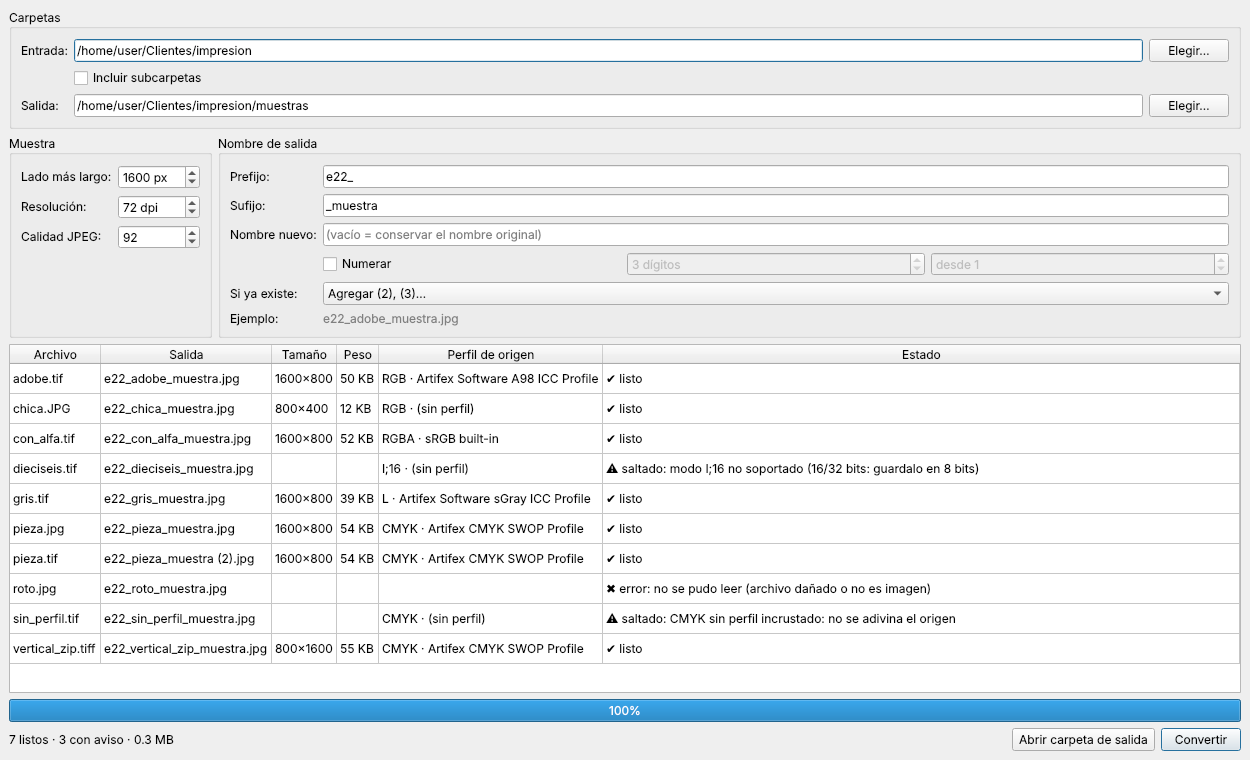
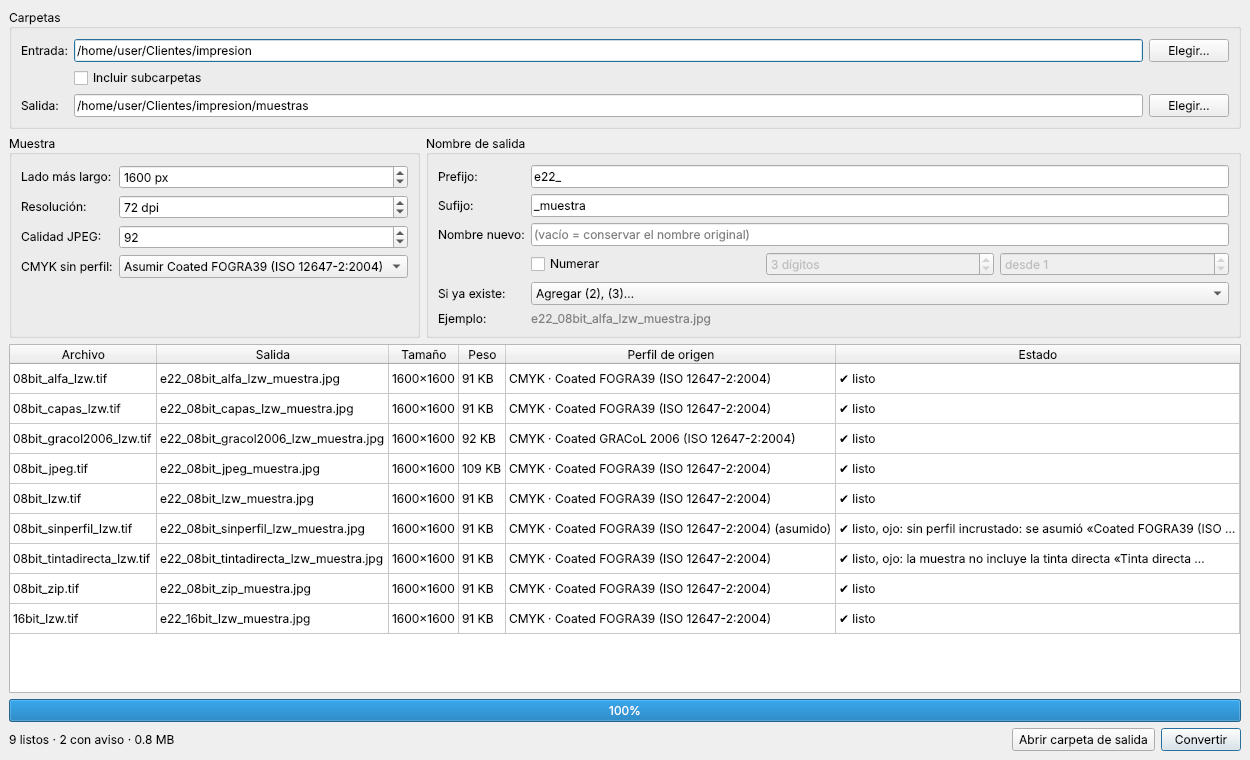
Opcion para asumir un perfil en CMYK sin perfil incrustado
Photoshop no tiene un perfil fijo para estos casos: usa su espacio de trabajo
CMYK, que depende de la region (SWOP v2 en Norteamerica, FOGRA39 en Europa).
En vez de adivinar en silencio:

- muestras_core: Opciones.perfil_cmyk; si esta vacio el archivo se salta como
  antes, si no se convierte con ese perfil y queda en estado "aviso" diciendo
  cual se asumio. buscar_perfiles_cmyk() lista los perfiles CMYK instalados
  (carpetas de Adobe y del sistema) leyendo la cabecera ICC.
- GUI: combo "CMYK sin perfil" (saltar / perfiles instalados / elegir .icc),
  recordado entre sesiones.
- CLI: --perfil-cmyk.
- Pruebas: asumir FOGRA39 en 08bit_sinperfil da la misma muestra que 08bit_lzw.

Claude-Session: https://claude.ai/code/session_01CtNG3Qw2qpFFRq4txXUyPD

diff --git a/muestras_core.py b/muestras_core.py
@@ -13,9 +13,11 @@ Flujo por archivo (ver README para el porque de cada paso):
 
 Los originales NO se tocan: solo se escribe en la carpeta de salida.
 """
+import functools
 import os
 import re
 import struct
+import sys
 from dataclasses import dataclass
 
 from PIL import Image, ImageCms
@@ -47,6 +49,7 @@ class Opciones:
     digitos: int = 3
     inicio: int = 1
     si_existe: str = "numerar"
+    perfil_cmyk: str = ""       # .icc a asumir en CMYK sin perfil; vacio = saltarlos
 
 
 @dataclass
@@ -117,6 +120,52 @@ def planear_salidas(archivos, destino, opciones):
         usados.add(salida.lower())
         plan.append(salida)
     return plan
+
+
+# Donde suelen vivir los perfiles ICC (Adobe instala los suyos en las de Adobe).
+def _carpetas_perfiles():
+    if sys.platform == "win32":
+        windir = os.environ.get("WINDIR", r"C:\Windows")
+        comunes = os.environ.get("COMMONPROGRAMFILES", r"C:\Program Files\Common Files")
+        return [os.path.join(windir, "System32", "spool", "drivers", "color"),
+                os.path.join(comunes, "Adobe", "Color", "Profiles")]
+    if sys.platform == "darwin":
+        return ["/Library/Application Support/Adobe/Color/Profiles",
+                "/Library/ColorSync/Profiles",
+                os.path.expanduser("~/Library/ColorSync/Profiles"),
+                "/System/Library/ColorSync/Profiles"]
+    return ["/usr/share/color/icc", "/usr/local/share/color/icc",
+            os.path.expanduser("~/.local/share/icc"), os.path.expanduser("~/.color/icc")]
+
+
+def es_perfil_cmyk(ruta):
+    """True si el .icc/.icm describe un espacio CMYK (bytes 16-19 de la cabecera)."""
+    try:
+        with open(ruta, "rb") as f:
+            cabecera = f.read(40)
+        return len(cabecera) == 40 and cabecera[36:40] == b"acsp" and cabecera[16:20] == b"CMYK"
+    except OSError:
+        return False
+
+
+def buscar_perfiles_cmyk(carpetas=None):
+    """[(descripcion, ruta)] de los perfiles CMYK instalados, sin repetir descripcion."""
+    vistos = {}
+    for carpeta in carpetas or _carpetas_perfiles():
+        for raiz, _, nombres in os.walk(carpeta):
+            for n in nombres:
+                ruta = os.path.join(raiz, n)
+                if n.lower().endswith((".icc", ".icm")) and es_perfil_cmyk(ruta):
+                    with open(ruta, "rb") as f:
+                        desc = descripcion_perfil(f.read())
+                    vistos.setdefault(desc, ruta)
+    return sorted(vistos.items(), key=lambda par: par[0].lower())
+
+
+@functools.lru_cache(maxsize=4)
+def leer_perfil(ruta):
+    with open(ruta, "rb") as f:
+        return f.read()
 
 
 def descripcion_perfil(icc):
@@ -227,13 +276,19 @@ def procesar(ruta, salida, opciones):
                     r.motivo += " (gris de 16/32 bits: guárdalo en 8 bits)"
                 return r
             if img.mode == "CMYK" and not icc:
-                r.estado = "saltado"
-                r.motivo = "CMYK sin perfil incrustado: no se adivina el origen"
-                return r
+                if not opciones.perfil_cmyk:
+                    r.estado = "saltado"
+                    r.motivo = "CMYK sin perfil incrustado: no se adivina el origen"
+                    return r
+                # Lo mismo que hace Photoshop con su espacio de trabajo CMYK, pero a la vista.
+                icc = leer_perfil(opciones.perfil_cmyk)
+                r.perfil_origen = descripcion_perfil(icc) + " (asumido)"
+                r.estado = "aviso"
+                r.motivo = f"sin perfil incrustado: se asumió «{descripcion_perfil(icc)}»"
             directas = tintas_directas(img)
             if directas:
                 r.estado = "aviso"
-                r.motivo = ("la muestra no incluye la tinta directa "
+                r.motivo = (r.motivo + "; " if r.motivo else "") + ("la muestra no incluye la tinta directa "
                             + ", ".join(f"«{n}»" for n in directas) + " (solo CMYK)")
             img.thumbnail((opciones.lado, opciones.lado), Image.LANCZOS)
             img.info["icc_profile"] = icc

diff --git a/muestras_gui.py b/muestras_gui.py
@@ -26,6 +26,7 @@ import muestras_core as core
 APP = "muestras-rgb"
 ORG = "e22lab"
 COL_ARCHIVO, COL_SALIDA, COL_TAMANO, COL_PESO, COL_PERFIL, COL_ESTADO = range(6)
+ELEGIR_ICC = "<elegir>"
 TEXTO_SI_EXISTE = {"numerar": "Agregar (2), (3)…", "sobrescribir": "Sobrescribir",
                    "saltar": "Saltar"}
 
@@ -94,6 +95,17 @@ class Ventana(QMainWindow):
         ft.addRow("Lado más largo:", self.sp_lado)
         ft.addRow("Resolución:", self.sp_dpi)
         ft.addRow("Calidad JPEG:", self.sp_calidad)
+        self.cb_perfil = QComboBox()
+        self.cb_perfil.setToolTip(
+            "Qué hacer con un CMYK que no trae perfil incrustado. Photoshop usa su espacio\n"
+            "de trabajo CMYK (en Norteamérica suele ser U.S. Web Coated SWOP v2; en Europa,\n"
+            "Coated FOGRA39). Si asumes uno, la muestra queda marcada con aviso.")
+        self.cb_perfil.addItem("Saltarlos (recomendado)", "")
+        for desc, ruta in core.buscar_perfiles_cmyk():
+            self.cb_perfil.addItem(f"Asumir {desc}", ruta)
+        self.cb_perfil.addItem("Elegir archivo .icc…", ELEGIR_ICC)
+        self.cb_perfil.activated.connect(self.al_elegir_perfil)
+        ft.addRow("CMYK sin perfil:", self.cb_perfil)
 
         # --- Nombre ---------------------------------------------------------
         nombre = QGroupBox("Nombre de salida")
@@ -193,12 +205,14 @@ class Ventana(QMainWindow):
         self.chk_numerar.setChecked(a.value("numerar", False, type=bool))
         self.sp_digitos.setValue(int(a.value("digitos", 3)))
         self.cb_existe.setCurrentIndex(max(0, self.cb_existe.findData(a.value("si_existe", "numerar"))))
+        self.poner_perfil(a.value("perfil_cmyk", ""))
 
     def guardar_ajustes(self):
         a = self.ajustes
         o = self.opciones()
         a.setValue("entrada", self.ed_entrada.text())
-        for clave in ("lado", "dpi", "calidad", "prefijo", "sufijo", "numerar", "digitos", "si_existe"):
+        for clave in ("lado", "dpi", "calidad", "prefijo", "sufijo", "numerar", "digitos", "si_existe",
+                      "perfil_cmyk"):
             a.setValue(clave, getattr(o, clave))
 
     def closeEvent(self, ev):
@@ -271,7 +285,30 @@ class Ventana(QMainWindow):
             prefijo=self.ed_prefijo.text(), sufijo=self.ed_sufijo.text(),
             nombre_nuevo=self.ed_nuevo.text(), numerar=self.chk_numerar.isChecked(),
             digitos=self.sp_digitos.value(), inicio=self.sp_inicio.value(),
-            si_existe=self.cb_existe.currentData())
+            si_existe=self.cb_existe.currentData(), perfil_cmyk=self.cb_perfil.currentData())
+
+    # --- perfil para CMYK sin perfil --------------------------------------------
+    def poner_perfil(self, ruta):
+        """Selecciona `ruta` en la lista (agregandola si no estaba); vacia = saltar."""
+        if not ruta or not os.path.isfile(ruta) or not core.es_perfil_cmyk(ruta):
+            self.cb_perfil.setCurrentIndex(0)
+            return
+        i = self.cb_perfil.findData(ruta)
+        if i < 0:
+            desc = core.descripcion_perfil(core.leer_perfil(ruta))
+            i = self.cb_perfil.count() - 1          # antes de "Elegir archivo…"
+            self.cb_perfil.insertItem(i, f"Asumir {desc}", ruta)
+        self.cb_perfil.setCurrentIndex(i)
+
+    def al_elegir_perfil(self, _indice):
+        if self.cb_perfil.currentData() != ELEGIR_ICC:
+            return
+        ruta, _ = QFileDialog.getOpenFileName(self, "Perfil CMYK a asumir", "",
+                                              "Perfiles ICC (*.icc *.icm)")
+        if ruta and not core.es_perfil_cmyk(ruta):
+            QMessageBox.warning(self, APP, "Ese archivo no es un perfil ICC CMYK.")
+            ruta = ""
+        self.poner_perfil(ruta)
 
     def actualizar_nombres(self):
         if self.trabajador:

diff --git a/tests/test_fixtures.py b/tests/test_fixtures.py
@@ -75,5 +75,45 @@ class TestFixturesTiff(unittest.TestCase):
                     self.assertLess(max(dif), tolerancia)
 
 
+class TestCmykSinPerfil(unittest.TestCase):
+    """Asumir FOGRA39 para 08bit_sinperfil_lzw debe dar lo mismo que 08bit_lzw (mismos pixeles)."""
+
+    @classmethod
+    def setUpClass(cls):
+        cls.tmp = tempfile.TemporaryDirectory()
+        with Image.open(os.path.join(FIXTURES, "08bit_lzw.tif")) as im:
+            cls.fogra = os.path.join(cls.tmp.name, "perfiles", "fogra39.icc")
+            os.makedirs(os.path.dirname(cls.fogra))
+            with open(cls.fogra, "wb") as f:
+                f.write(im.info["icc_profile"])
+        with open(os.path.join(cls.tmp.name, "perfiles", "srgb.icc"), "wb") as f:
+            f.write(core.SRGB_BYTES)
+
+    @classmethod
+    def tearDownClass(cls):
+        cls.tmp.cleanup()
+
+    def _procesar(self, nombre, perfil):
+        salida = os.path.join(self.tmp.name, nombre + ".jpg")
+        opciones = core.Opciones(lado=500, perfil_cmyk=perfil)
+        return core.procesar(os.path.join(FIXTURES, nombre + ".tif"), salida, opciones)
+
+    def test_sin_opcion_se_salta(self):
+        self.assertEqual(self._procesar("08bit_sinperfil_lzw", "").estado, "saltado")
+
+    def test_perfil_asumido(self):
+        r = self._procesar("08bit_sinperfil_lzw", self.fogra)
+        self.assertEqual(r.estado, "aviso")
+        self.assertIn("se asumió «Coated FOGRA39", r.motivo)
+        ref = self._procesar("08bit_lzw", self.fogra)
+        self.assertEqual(ref.estado, "ok")      # el perfil incrustado manda sobre el asumido
+        with Image.open(r.salida) as a, Image.open(ref.salida) as b:
+            self.assertEqual(max(ImageStat.Stat(ImageChops.difference(a, b)).mean), 0)
+
+    def test_buscar_perfiles_cmyk(self):
+        encontrados = core.buscar_perfiles_cmyk([os.path.dirname(self.fogra)])
+        self.assertEqual([d for d, _ in encontrados], ["Coated FOGRA39 (ISO 12647-2:2004)"])
+
+
 if __name__ == "__main__":
     unittest.main()

diff --git a/exportar_muestras_rgb.py b/exportar_muestras_rgb.py
@@ -36,6 +36,8 @@ def parse_args():
                    help="DPI escrito en los metadatos (default: 72)")
     p.add_argument("--prefijo", default="", help="Texto antes del nombre de cada muestra")
     p.add_argument("--sufijo", default="", help="Texto despues del nombre de cada muestra")
+    p.add_argument("--perfil-cmyk", default="",
+                   help="Perfil .icc a asumir en los CMYK sin perfil incrustado (default: saltarlos)")
     p.add_argument("--si-existe", choices=core.SI_EXISTE, default="numerar",
                    help="Si la muestra ya existe: numerar (default), sobrescribir o saltar")
     return p.parse_args()
@@ -46,8 +48,11 @@ def main():
     carpeta = os.path.abspath(args.carpeta)
     destino = os.path.abspath(args.salida) if args.salida else os.path.join(carpeta, args.subcarpeta)
     opciones = core.Opciones(lado=args.lado, calidad=args.calidad, dpi=args.dpi,
-                             prefijo=args.prefijo, sufijo=args.sufijo, si_existe=args.si_existe)
+                             prefijo=args.prefijo, sufijo=args.sufijo, si_existe=args.si_existe,
+                             perfil_cmyk=args.perfil_cmyk)
 
+    if args.perfil_cmyk and not core.es_perfil_cmyk(args.perfil_cmyk):
+        raise SystemExit(f"--perfil-cmyk: {args.perfil_cmyk} no es un perfil ICC CMYK")
     archivos = core.listar_archivos(carpeta)
     plan = core.planear_salidas(archivos, destino, opciones)
     print(f"{len(archivos)} JPG/TIFF en {carpeta}")

diff --git a/README.md b/README.md
@@ -33,6 +33,9 @@ python muestras_gui.py
   carpeta de salida nunca se reprocesan.
 - **Salida:** por defecto `<entrada>/muestras`; se puede elegir cualquier otra.
 - **Muestra:** lado más largo (no agranda imágenes más chicas), dpi y calidad JPEG.
+- **CMYK sin perfil:** saltarlos (default) o asumir un perfil. La lista trae los perfiles
+  CMYK instalados en la máquina (con Adobe instalado aparecen SWOP, FOGRA39, GRACoL…) y
+  permite elegir cualquier `.icc`. La muestra queda marcada con aviso y el perfil asumido.
 - **Nombre:** prefijo, sufijo, nombre nuevo para todo el lote (se numera solo),
   numeración opcional (dígitos y número inicial) y qué hacer si ya existe
   (agregar `(2)`, sobrescribir con confirmación, o saltar). Muestra un ejemplo del
@@ -83,6 +86,7 @@ python exportar_muestras_rgb.py "G:\ruta" --salida "D:\envios" --prefijo e22_ --
 | `--dpi` | `72` | DPI escrito en los metadatos. No cambia los píxeles, solo la etiqueta. |
 | `--prefijo` / `--sufijo` | — | Texto antes / después del nombre original. |
 | `--si-existe` | `numerar` | `numerar` (agrega ` (2)`), `sobrescribir` o `saltar`. |
+| `--perfil-cmyk` | — | `.icc` a asumir en los CMYK sin perfil (si no se da, se saltan). |
 
 Al terminar imprime una tabla de verificación (dimensiones, peso y perfil de origen
 de cada salida) y avisa de cualquier archivo que no procesó.
@@ -99,7 +103,7 @@ Verificado con las variantes de TIFF exportadas desde Photoshop en `fixtures/tif
 | TIFF con capas | Se usa el compuesto aplanado que Photoshop guarda junto a las capas. |
 | TIFF con canal alfa guardado | Se ignora el alfa (no es tinta). |
 | TIFF con **tinta directa** | Se convierte **con aviso**: la muestra solo lleva CMYK y no incluye la tinta directa (se nombra en el aviso). |
-| CMYK sin perfil | **Se salta con aviso.** |
+| CMYK sin perfil | **Se salta con aviso**, o se convierte con aviso asumiendo el perfil que elijas (ver abajo). |
 | RGB con perfil (p. ej. Adobe RGB) | Se convierte desde su perfil a sRGB. |
 | RGB sin perfil | Se asume sRGB y solo se reduce. |
 | Escala de grises 8 bits (con o sin perfil) | Igual que RGB. |
@@ -124,7 +128,14 @@ Verificado con las variantes de TIFF exportadas desde Photoshop en `fixtures/tif
   CMYK y descarta los extra. Para no perderla en silencio se lee el recurso DisplayInfo
   (`0x0435`) que Photoshop guarda en el TIFF, que distingue alfa (tipo 0/1) de tinta
   directa (tipo 2), y se avisa con su nombre.
-- Un **CMYK sin perfil incrustado se salta con aviso**, porque sin origen no hay forma
+- **Photoshop no tiene un perfil fijo para CMYK sin perfil:** usa el espacio de trabajo
+  CMYK de *Ajustes de color*, que depende de la región de instalación (Norteamérica:
+  U.S. Web Coated SWOP v2; Europa: Coated FOGRA39; Japón: Japan Color 2001 Coated). Por
+  eso aquí no se asume ninguno en silencio: o se salta, o se asume el que elija el
+  usuario y la muestra lo dice. La app no trae perfiles de Adobe: los toma de los
+  instalados en el sistema (`Common Files/Adobe/Color/Profiles` en Windows,
+  `/Library/Application Support/Adobe/Color/Profiles` en Mac, ColorSync, etc.).
+- Un **CMYK sin perfil incrustado se salta con aviso** si no se eligió perfil a asumir, porque sin origen no hay forma
    honesta de convertir el color. Mejor un aviso que un color inventado.
 - Un archivo que ya es RGB se reconvierte desde su perfil a sRGB (o solo se reduce si no
    trae perfil).
